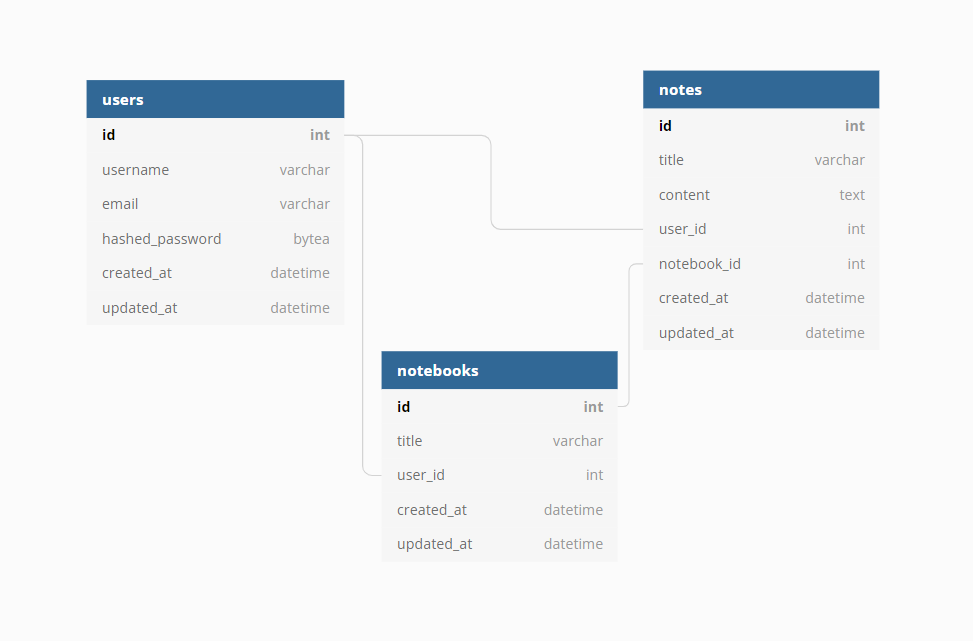
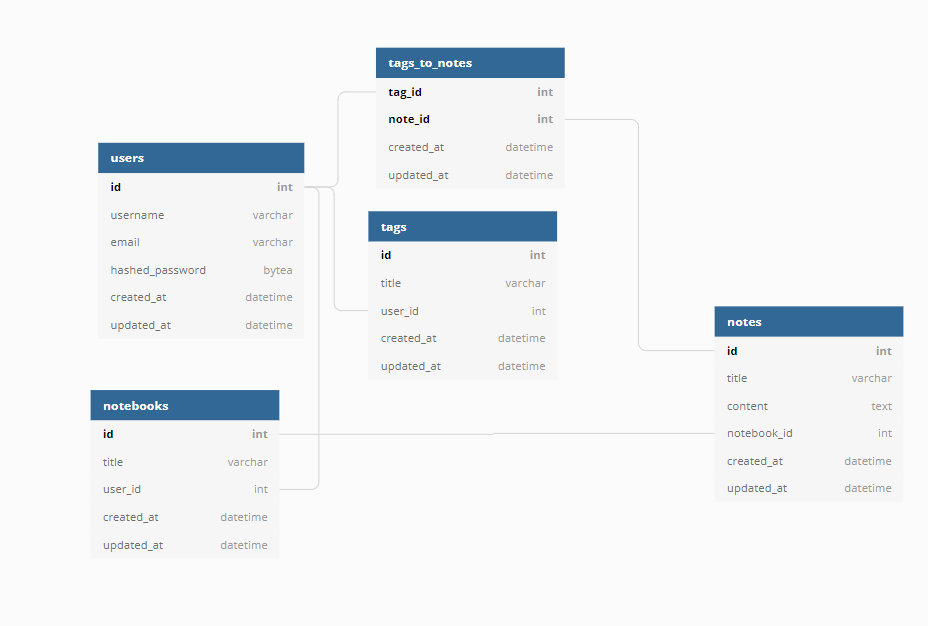
added tags table and notetags table

diff --git a/backend/db/migrations/20220220022206-create-tag.js b/backend/db/migrations/20220220022206-create-tag.js
@@ -1,7 +1,7 @@
 'use strict';
 module.exports = {
   up: (queryInterface, Sequelize) => {
-    return queryInterface.createTable('Notes', {
+    return queryInterface.createTable('Tags', {
       id: {
         allowNull: false,
         autoIncrement: true,
@@ -9,20 +9,14 @@ module.exports = {
         type: Sequelize.INTEGER
       },
       title: {
-        type: Sequelize.STRING(50)
-      },
-      content: {
-        type: Sequelize.TEXT
-      },
-      notebookId: {
+        type: Sequelize.STRING(50),
         allowNull: false,
-        references: { model : "Notebooks" },
-        type: Sequelize.INTEGER
+        unique: true
       },
       userId: {
+        type: Sequelize.INTEGER,
         allowNull: false,
-        references: { model : "Users" },
-        type: Sequelize.INTEGER
+        reference: { model : "Users" }
       },
       createdAt: {
         allowNull: false,
@@ -37,6 +31,6 @@ module.exports = {
     });
   },
   down: (queryInterface, Sequelize) => {
-    return queryInterface.dropTable('Notes');
+    return queryInterface.dropTable('Tags');
   }
 };

diff --git a/backend/db/migrations/20220220022334-create-note-tag-relation.js b/backend/db/migrations/20220220022334-create-note-tag-relation.js
@@ -1,0 +1,31 @@
+'use strict';
+module.exports = {
+  up: (queryInterface, Sequelize) => {
+    return queryInterface.createTable('NoteTagRelations', {
+      noteId: {
+        type: Sequelize.INTEGER,
+        allowNull: false,
+        reference: { model : "Notes" }
+      },
+      tagId: {
+        type: Sequelize.INTEGER,
+        allowNull: false,
+        reference: { model : "Tags" }
+
+      },
+      createdAt: {
+        allowNull: false,
+        type: Sequelize.DATE,
+        defaultValue: Sequelize.fn('now')
+      },
+      updatedAt: {
+        allowNull: false,
+        type: Sequelize.DATE,
+        defaultValue: Sequelize.fn('now')
+      }
+    });
+  },
+  down: (queryInterface, Sequelize) => {
+    return queryInterface.dropTable('NoteTagRelations');
+  }
+};

diff --git a/backend/db/models/user.js b/backend/db/models/user.js
@@ -20,15 +20,12 @@ module.exports = (sequelize, DataTypes) => {
       type: DataTypes.STRING,
       allowNull: false,
       validate: {
-        len: [3, 256]
+        len: [5, 255]
       }
     },
     hashedPassword: {
       type: DataTypes.STRING.BINARY,
       allowNull: false,
-      validate: {
-        len: [60, 60]
-      }
     }
   },
   {
@@ -89,6 +86,7 @@ module.exports = (sequelize, DataTypes) => {
     // associations can be defined here
     User.hasMany(models.Notebook, { foreignKey: 'userId', onDelete: 'cascade', hooks: true });
     User.hasMany(models.Note, { foreignKey: 'userId', onDelete: 'cascade', hooks: true });
+    User.hasMany(models.Tag, { foreignKey: 'userId', onDelete: 'cascade', hooks: true });
   };
   return User;
 };

diff --git a/backend/db/models/notetagrelation.js b/backend/db/models/notetagrelation.js
@@ -1,0 +1,25 @@
+'use strict';
+module.exports = (sequelize, DataTypes) => {
+  const NoteTagRelation = sequelize.define('NoteTagRelation', {
+    noteId: {
+      type: DataTypes.INTEGER,
+      allowNull: false
+    },
+    tagId: {
+      type: DataTypes.INTEGER,
+      allowNull: false
+    }
+  }, {
+    indexes: [
+      {
+        unique: true,
+        fields: ["noteId", "tagId"]
+      }
+    ]
+  });
+  NoteTagRelation.associate = function(models) {
+    NoteTagRelation.belongsTo(models.Note, { foreignKey: 'noteId' });
+    NoteTagRelation.belongsTo(models.Tag, { foreignKey: 'tagId' });
+  };
+  return NoteTagRelation;
+};

diff --git a/backend/db/models/tag.js b/backend/db/models/tag.js
@@ -1,0 +1,18 @@
+'use strict';
+module.exports = (sequelize, DataTypes) => {
+  const Tag = sequelize.define('Tag', {
+    title: {
+      type: DataTypes.STRING(50),
+      allowNull: false
+    },
+    userId: {
+      type: DataTypes.INTEGER,
+      allowNull: false
+    }
+  }, {});
+  Tag.associate = function(models) {
+    Tag.belongsTo(models.User, { foreignKey: 'userId' });
+    Tag.hasMany(models.NoteTagRelation, { foreignKey: 'tagId', onDelete: 'cascade', hooks: true });
+  };
+  return Tag;
+};

diff --git a/backend/db/seeders/20220220024120-noteTagSeeds.js b/backend/db/seeders/20220220024120-noteTagSeeds.js
@@ -1,0 +1,14 @@
+'use strict';
+
+module.exports = {
+  up: (queryInterface, Sequelize) => {
+    return queryInterface.bulkInsert('NoteTagRelations', [{
+      noteId: 1,
+      tagId: 1
+    }], {});
+  },
+
+  down: (queryInterface, Sequelize) => {
+    return queryInterface.bulkDelete('NoteTagRelations', null, {});
+  }
+};

diff --git a/backend/db/seeders/20220220024109-tagSeeds.js b/backend/db/seeders/20220220024109-tagSeeds.js
@@ -1,0 +1,14 @@
+'use strict';
+
+module.exports = {
+  up: (queryInterface, Sequelize) => {
+    return queryInterface.bulkInsert('Tags', [{
+      title: 'example tag',
+      userId: 1
+    }], {});
+  },
+
+  down: (queryInterface, Sequelize) => {
+    return queryInterface.bulkDelete('Tags', null, {});
+  }
+};

diff --git a/backend/db/seeders/20211208191654-noteSeed.js b/backend/db/seeders/20211208191654-noteSeed.js
@@ -44,13 +44,7 @@ module.exports = {
         content: '',
         notebookId: 4,
         userId: 1
-      },
-      {
-        title: 'noteman stevens',
-        content: 'noteman, noteman, noteman, that boi up to somethin',
-        notebookId: 5,
-        userId: 1
-      },
+      }
     ], {});
   },
 

diff --git a/backend/db/seeders/20211208191639-notebooksSeed.js b/backend/db/seeders/20211208191639-notebooksSeed.js
@@ -18,10 +18,6 @@ module.exports = {
       {
         title: 'notebookman, notebookman, notebookman',
         userId: 1
-      },
-      {
-        title: "'/' & logo x7",
-        userId: 1
       }
     ], {});
   },

diff --git a/backend/db/migrations/20211205055201-create-user.js b/backend/db/migrations/20211205055201-create-user.js
@@ -14,7 +14,7 @@ module.exports = {
         unique: true
       },
       email: {
-        type: Sequelize.STRING(256),
+        type: Sequelize.STRING(255),
         allowNull: false,
         unique: true
       },

diff --git a/docs/redux-state.md b/docs/redux-state.md
@@ -1,0 +1,97 @@
+{
+    session: {
+        user: {
+            id: 1,
+            username: "some_username",
+            email: "user@example.io"
+        }
+    },
+    notes: {
+        entities: {
+            notes: {
+                2: {
+                    id: 2,
+                    title: "note title",
+                    content: "wow this is a note",
+                    userId: 1,
+                    notebook_id: 7,
+                    createdAt: date,
+                    updatedAt: date,
+                    user: {
+                        id: 1,
+                        username: "some_username",
+                        email: "user@example.io"
+                    }
+                },
+                5: {
+                    id: 5,
+                    title: "also note title",
+                    content: "wow this is also a note",
+                    userId: 1,
+                    notebook_id: 8,
+                    createdAt: date,
+                    updatedAt: date,
+                    user: {
+                        id: 1,
+                        username: "some_username",
+                        email: "user@example.io"
+                    }
+                }
+            },
+            tagsToNotes: {
+                3: {
+                    id: 3,
+                    noteId: 2,
+                    tagId: 6
+                    createdAt: datetime,
+                    updatedAt: datetime
+                }
+
+            }
+        }
+    },
+    notebooks: {
+        notebooks: {
+            7: {
+                id: 7,
+                title: "notebook title",
+                userId: 1,
+                createdAt: datetime,
+                updatedAt: datetime,
+                user: {
+                    id: 1,
+                    username: "some_username",
+                    email: "user@example.io"
+                }
+            },
+            8: {
+                id: 8,
+                title: "notebook title 2",
+                userId: 1,
+                createdAt: datetime,
+                updatedAt: datetime,
+                user: {
+                    id: 1,
+                    username: "some_username",
+                    email: "user@example.io"
+                }
+            }
+        }
+    },
+    tags: {
+        tags: {
+            6: {
+                id: 6,
+                title: "tag title",
+                userId: 1,
+                createdAt: datetime,
+                updatedAt: datetime,
+                user: {
+                    id: 1,
+                    username: "some_username",
+                    email: "user@example.io"
+                }
+            }
+        }
+    }
+}

diff --git a/README.md b/README.md
@@ -11,7 +11,7 @@ In the root directory, run `npm install` to install all dependencies.
 3. Create a database user with CREATEDB privileges
 4. Copy the contents of `backend/.env.example` into a new `backend/.env` file, and replace the example credentials with the values used in step 3
 5. Create the database with the command: `npx dotenv sequelize db:create`
-6. Run migrations with the command: `npx dotenv sequelize db:migrations`
+6. Run migrations with the command: `npx dotenv sequelize db:migrate`
 7. Seed the database with the command: `npx dotenv sequelize db:seed:all`
 8. Run the backend with the command `npm start` in the `backend` directory
 9. In a new terminal, run `npm start` in the `frontend` directory
